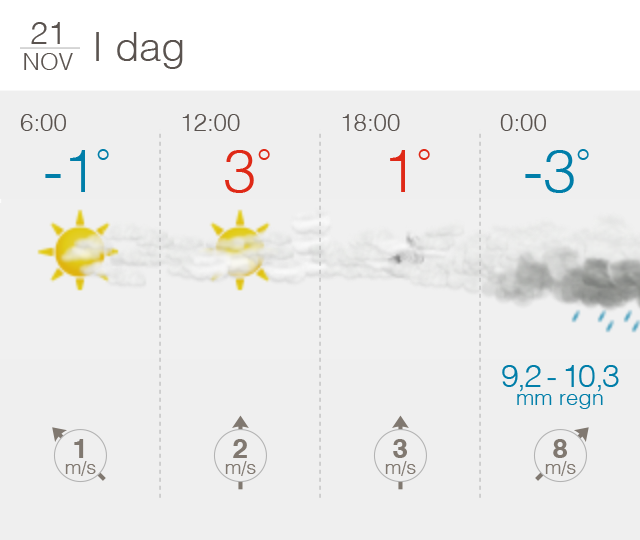
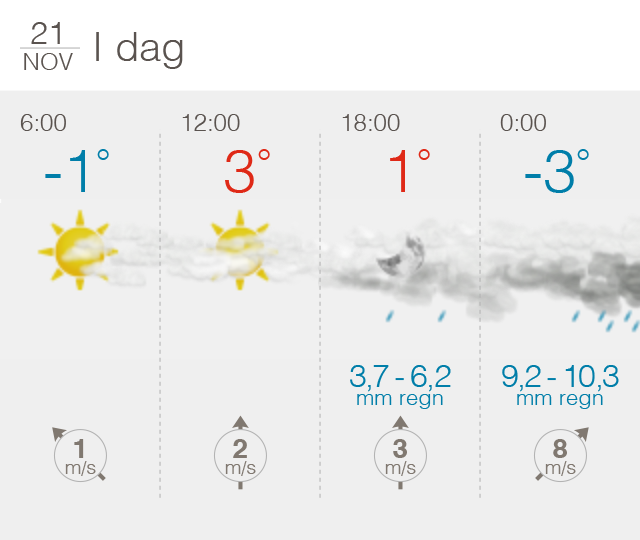
Updated image

Changed region(s): [[0.5, 0.4444, 1.0, 0.5926], [0.5312, 0.6815, 0.7188, 0.7704], [0.875, 0.4444, 0.9062, 0.4741]]

diff --git a/symbols/symbolgeneration.html b/symbols/symbolgeneration.html
@@ -41,10 +41,10 @@
 						"mainsymbol":	0,
 						"symbols":		[2,2,1,1,2,2],
 						"density":		[40,40,35,35,40,45],
-						"probability":	[0,0,0,0,0,0],
+						"probability":	[10,10,20,40,60,70],
 						"rainMin":		[0,0,0,0,0,0],
-						"rainMax":		[0,0,0,0,0,0],
-						"dewPoint":		[0,0.1,0,0,0,0]
+						"rainMax":		[0,0,0.2,0,0.2,0],
+						"dewPoint":		[0,0.1,0,0.1,0,0.5]
 					},
 					"night":{
 						"mainsymbol":	0,
